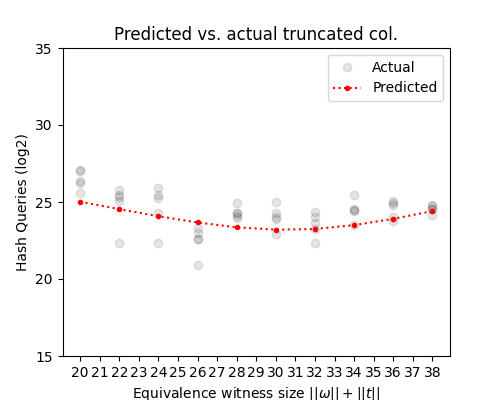
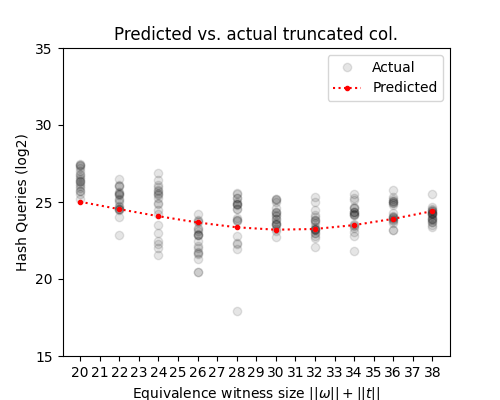
Collision simulation with more samples

diff --git a/colfig.py b/colfig.py
@@ -248,7 +248,7 @@ def graph():
     wSize = 10
     z=3
 
-    numSamplesPerT = 20
+    numSamplesPerT = 25
     samples = []
     xSamples = []
     xEq = []
@@ -263,18 +263,18 @@ def graph():
         xEq.append(witnessSize)
         yEq.append(workEq)
 
-        # for sample in range(numSamplesPerT):
-        #     print("on sample", sample, "for witnessSize", witnessSize, "c", c)
-        #     workReal = run(c, z, wSize, tSize)
-        #     samples.append(workReal)
-        #     xSamples.append(witnessSize)
+        for sample in range(numSamplesPerT):
+            print("on sample", sample, "for witnessSize", witnessSize, "c", c)
+            workReal = run(c, z, wSize, tSize)
+            samples.append(workReal)
+            xSamples.append(witnessSize)
             
-        #     # These are global counters, we need to reset them after each run
-        #     # This is a bit of a hack and somewhat dangerous. Not worth fixing for this one off task
-        #     global dInternalCount
-        #     dInternalCount = 0
-        #     global hCount
-        #     hCount = 0
+            # These are global counters, we need to reset them after each run
+            # This is a bit of a hack and somewhat dangerous. Not worth fixing for this one off task
+            global dInternalCount
+            dInternalCount = 0
+            global hCount
+            hCount = 0
 
     # We save the previous run outputs here so we don't have to rerun the lengthy computation when tweaking the graph
     # previous run 40 bits (every second position) 1 sample per t
@@ -282,9 +282,13 @@ def graph():
     # samples = [26.947433806132818, 25.875842956737074, 25.538076889852594, 22.25777281664073, 24.646882879160493, 21.948300208319182, 23.085003133767923, 24.45109411957593, 24.09847743170647, 24.3310476559132]
 
     # previous run 40 bits (every second position) 5 sample per t
-    xSamples = [20, 20, 20, 20, 20, 22, 22, 22, 22, 22, 24, 24, 24, 24, 24, 26, 26, 26, 26, 26, 28, 28, 28, 28, 28, 30, 30, 30, 30, 30, 32, 32, 32, 32, 32, 34, 34, 34, 34, 34, 36, 36, 36, 36, 36, 38, 38, 38, 38, 38] 
-    samples = [26.33466376815708, 27.036121438953128, 25.59484700197138, 27.094771949608464, 26.224680628457957, 25.093548532873772, 25.45931250791735, 25.76053133985475, 25.300569783838938, 22.330657611803698, 24.273092053662165, 25.91272796894369, 25.23849286464406, 25.46985246969138, 22.368451043001894, 20.884854670918266, 23.280432242015085, 22.97073048142575, 22.567615184110863, 22.588780046472205, 23.982940497016838, 24.31412827296044, 24.299155114461932, 24.931813626330303, 24.092866157422208, 25.031674830128342, 24.003486772943948, 23.91372415676553, 22.904001514846613, 24.305291801634173, 23.668132966355245, 23.233622894717207, 23.997696862747453, 24.37435306146796, 22.32186562943628, 24.392566956213493, 25.46406831663872, 24.472767986104035, 23.503675211685316, 24.540066120727058, 23.750589540551164, 24.959134027566428, 24.81202640896024, 24.049309734283607, 25.053889474463993, 24.51789293230533, 24.723639125738714, 24.79734241443696, 24.52647900124225, 24.148820925808156]
+    # xSamples = [20, 20, 20, 20, 20, 22, 22, 22, 22, 22, 24, 24, 24, 24, 24, 26, 26, 26, 26, 26, 28, 28, 28, 28, 28, 30, 30, 30, 30, 30, 32, 32, 32, 32, 32, 34, 34, 34, 34, 34, 36, 36, 36, 36, 36, 38, 38, 38, 38, 38] 
+    # samples = [26.33466376815708, 27.036121438953128, 25.59484700197138, 27.094771949608464, 26.224680628457957, 25.093548532873772, 25.45931250791735, 25.76053133985475, 25.300569783838938, 22.330657611803698, 24.273092053662165, 25.91272796894369, 25.23849286464406, 25.46985246969138, 22.368451043001894, 20.884854670918266, 23.280432242015085, 22.97073048142575, 22.567615184110863, 22.588780046472205, 23.982940497016838, 24.31412827296044, 24.299155114461932, 24.931813626330303, 24.092866157422208, 25.031674830128342, 24.003486772943948, 23.91372415676553, 22.904001514846613, 24.305291801634173, 23.668132966355245, 23.233622894717207, 23.997696862747453, 24.37435306146796, 22.32186562943628, 24.392566956213493, 25.46406831663872, 24.472767986104035, 23.503675211685316, 24.540066120727058, 23.750589540551164, 24.959134027566428, 24.81202640896024, 24.049309734283607, 25.053889474463993, 24.51789293230533, 24.723639125738714, 24.79734241443696, 24.52647900124225, 24.148820925808156]
     
+    # previous run 40 bits (every second position) 20 sample per t
+    # xSamples = [20, 20, 20, 20, 20, 20, 20, 20, 20, 20, 20, 20, 20, 20, 20, 20, 20, 20, 20, 20, 22, 22, 22, 22, 22, 22, 22, 22, 22, 22, 22, 22, 22, 22, 22, 22, 22, 22, 22, 22, 24, 24, 24, 24, 24, 24, 24, 24, 24, 24, 24, 24, 24, 24, 24, 24, 24, 24, 24, 24, 26, 26, 26, 26, 26, 26, 26, 26, 26, 26, 26, 26, 26, 26, 26, 26, 26, 26, 26, 26, 28, 28, 28, 28, 28, 28, 28, 28, 28, 28, 28, 28, 28, 28, 28, 28, 28, 28, 28, 28, 30, 30, 30, 30, 30, 30, 30, 30, 30, 30, 30, 30, 30, 30, 30, 30, 30, 30, 30, 30, 32, 32, 32, 32, 32, 32, 32, 32, 32, 32, 32, 32, 32, 32, 32, 32, 32, 32, 32, 32, 34, 34, 34, 34, 34, 34, 34, 34, 34, 34, 34, 34, 34, 34, 34, 34, 34, 34, 34, 34, 36, 36, 36, 36, 36, 36, 36, 36, 36, 36, 36, 36, 36, 36, 36, 36, 36, 36, 36, 36, 38, 38, 38, 38, 38, 38, 38, 38, 38, 38, 38, 38, 38, 38, 38, 38, 38, 38, 38, 38]
+    # samples = [26.31650167000893, 26.841679342650675, 26.774317468977195, 25.687648046539696, 26.364841962371553, 25.887669236277908, 26.52197211023208, 27.21952279354002, 26.64141743821282, 26.14299983912189, 27.386367863955208, 27.312198340861112, 26.383544584870215, 25.182982732582154, 25.52633398454383, 25.740193431364823, 27.491368910680205, 27.00979977070159, 27.40786722338409, 26.059884801000358, 26.05194811158582, 25.528838622507912, 25.66195740380907, 24.715978114407672, 22.839501952669814, 24.51974079951103, 26.061860027939776, 26.48231849400841, 25.50494130815545, 24.45904469960195, 25.57322623533716, 25.20094083646254, 24.02325224180138, 26.13501158392043, 24.515893197731504, 24.983151403988362, 24.64573785571835, 25.475334159543934, 25.14552352153949, 24.549265466413686, 24.192864532610777, 26.42160622266052, 21.559291658778122, 26.90735165327708, 24.878891449152917, 24.46603176393879, 25.712989687889134, 25.427797002083693, 23.530015960184844, 22.246093701328803, 25.98365124956839, 26.07853879678384, 24.93046110134271, 23.006363577445807, 25.536712676435663, 25.753163971261795, 25.245212957735543, 22.446059506192853, 25.579749385643623, 22.008873103699575, 21.690556043362896, 23.285303294577826, 21.758155290704774, 23.237282329011432, 23.72218444576, 24.2323855729427, 23.824473336352966, 23.748334038037175, 22.120887108060586, 22.87249979259214, 22.486386515061998, 21.291525968163164, 22.848750719745386, 21.612243091701085, 20.424162187263867, 20.469624926455246, 23.095828862870867, 22.942955071596774, 22.01467434851541, 22.83181402748685, 17.924081787242255, 23.78533372606018, 23.856449085789272, 24.864290163097543, 22.253779981696702, 25.554867831790684, 24.78794972388972, 25.02418957259665, 22.766454095193257, 21.940782072885003, 25.234143268336208, 25.487225049938043, 24.867299056352223, 24.51848375817526, 24.528047044347023, 25.242607907609564, 22.341720233145406, 23.801995631715485, 23.986789477451193, 24.84412699358014, 23.694053036576836, 23.883223126402925, 24.611994035066132, 23.24945000540693, 23.925669880267147, 23.572996334187355, 25.16964987940644, 24.35249966375388, 24.061439756175663, 23.085564360996788, 24.14308997855747, 24.981710941333652, 24.277581833207293, 23.52105439467368, 22.712423513598832, 24.331306100324714, 23.58747252387446, 23.572372598813367, 25.184531062304124, 25.11978859179712, 23.255809469298615, 24.157795006178976, 23.260141396001792, 22.999880983096514, 23.738072565660083, 23.363111436515, 25.353582894968202, 23.252029274432303, 23.013066536821643, 22.824620072061023, 23.827356951937272, 22.690878467056713, 23.62307046307232, 22.045721339819867, 23.828453796451278, 24.511765681040977, 23.176935686001002, 25.004083489952325, 23.162630886402077, 24.017442213231906, 24.205750376878335, 24.337028258440665, 21.850423412712296, 23.51238819933187, 24.61864465902348, 24.16478734164316, 25.28076546133161, 24.328739837416023, 23.072839979966975, 24.653613637038134, 23.301413719448757, 22.79081340854049, 24.12599355587187, 25.50093770999722, 24.331528963761322, 24.2515321800454, 25.11348183160837, 23.472300518235492, 24.631859182776786, 23.60277145911455, 25.76275010472803, 23.98596150985515, 24.818618305955326, 24.937366276439793, 24.027223745494208, 23.887128931091993, 24.983714628532336, 25.09145830791356, 24.042038640998708, 24.06887739807822, 24.911601914988104, 23.743439779189554, 25.17334107731379, 23.20676309538189, 25.082174669714327, 25.32426238335548, 24.259674311869706, 23.61789192828106, 23.857086787825686, 23.197177240277874, 23.82703949526134, 23.87590586453272, 24.271618469583377, 24.09480949344388, 25.551703187149645, 24.429427047047138, 24.47008165318364, 23.698188747444167, 23.961047075309978, 23.3890375752866, 23.532336542330672, 23.702600318265155, 23.91729130690657, 24.57029784371503, 24.266067983546936, 24.29525473260882, 24.44281583558393, 24.644046156182743, 24.192363106330564, 24.221227628705723]
+
     import matplotlib.pyplot as plt
 
     # Create the plot
